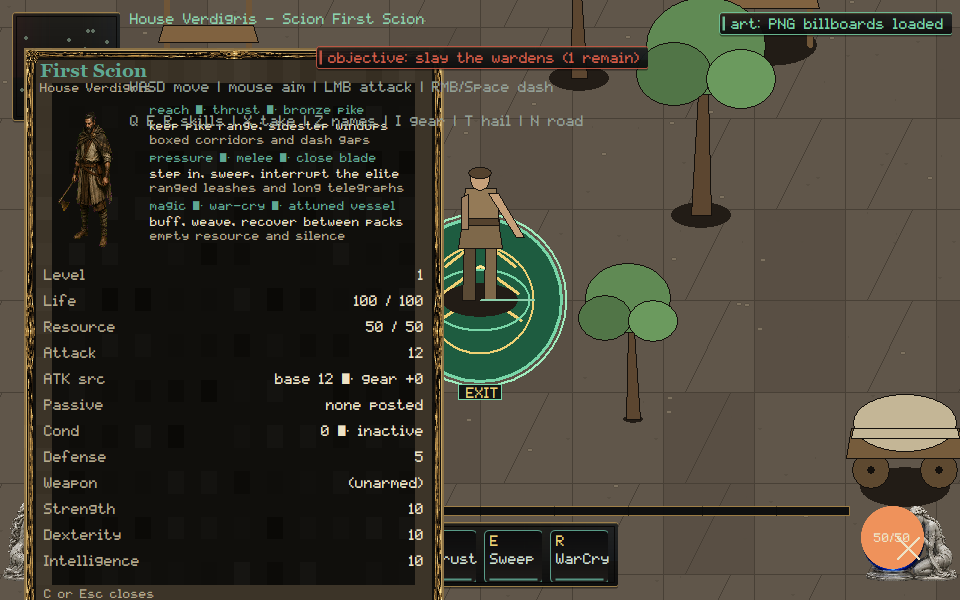
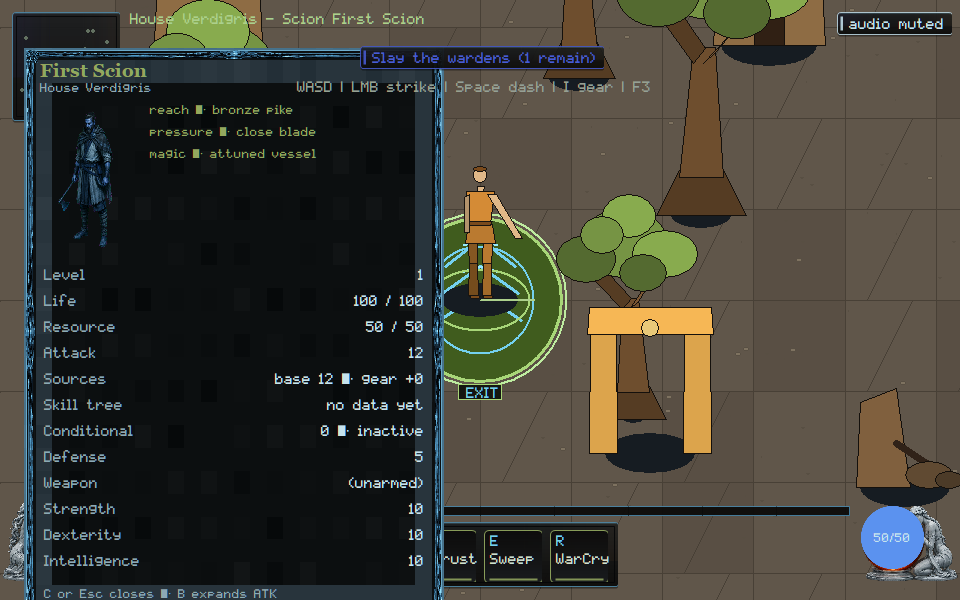
native: paint character-sheet ATK sources in owner language
Expanded Base/Gear/Passive/Conditional stay owner-facing; HUD ops keep char:src labels. Slice builds on the sheet are role-gear chips, not tactics essays.

diff --git a/native/client/main.cpp b/native/client/main.cpp
@@ -5333,18 +5333,10 @@ void paint_character_pane(ClientState& state, HDC dc, const RECT& bounds,
     const int bx = left + 20 * s + dest_w + 10 * s;
     for (const auto& build : verdigris::client::builds::kSliceBuilds) {
       const std::string head =
-          std::string(build.role) + " · " + build.primary_action + " · " +
-          build.gear;
+          std::string(build.role) + " · " + build.gear;
       SetTextColor(dc, skin::kVerdigris);
       TextOutA(dc, bx, by, head.c_str(), static_cast<int>(head.size()));
-      by += 16 * s;
-      SetTextColor(dc, skin::kInk);
-      TextOutA(dc, bx, by, build.tactics, static_cast<int>(strlen(build.tactics)));
-      by += 14 * s;
-      SetTextColor(dc, skin::kInkDim);
-      TextOutA(dc, bx, by, build.weakness,
-               static_cast<int>(strlen(build.weakness)));
-      by += 18 * s;
+      by += 22 * s;
       rl.push_back({render::Op::Hud, static_cast<double>(bx),
                     static_cast<double>(by), 0.0, 0,
                     verdigris::client::builds::fixture_hud_label(build)});
@@ -5425,21 +5417,40 @@ void paint_character_pane(ClientState& state, HDC dc, const RECT& bounds,
   }
   int y = top + 56 * s + portrait_h + 14 * s;
   SelectObject(dc, skin::font_body());
+  auto owner_stat_name = [](const std::string& label) -> std::string {
+    if (label == "src base") return "Base";
+    if (label == "src gear") return "Gear";
+    if (label == "src passive") return "Passive";
+    if (label == "src cond") return "Conditional";
+    if (label == "ATK src") return "Sources";
+    if (label == "Cond") return "Conditional";
+    if (label == "Passive") return "Skill tree";
+    return label;
+  };
+  auto owner_stat_value = [](const std::string& label,
+                             const std::string& value) -> std::string {
+    if (label == "Passive" && value == "none posted") return "no data yet";
+    return value;
+  };
   for (const auto& row : rows) {
+    const std::string shown = owner_stat_name(row.label);
+    const std::string shown_value = owner_stat_value(row.label, row.value);
     SetTextColor(dc, skin::kInkDim);
-    TextOutA(dc, left + 20 * s, y, row.label.c_str(),
-             static_cast<int>(row.label.size()));
+    TextOutA(dc, left + 20 * s, y, shown.c_str(),
+             static_cast<int>(shown.size()));
     SIZE extent{};
-    GetTextExtentPoint32A(dc, row.value.c_str(),
-                          static_cast<int>(row.value.size()), &extent);
+    GetTextExtentPoint32A(dc, shown_value.c_str(),
+                          static_cast<int>(shown_value.size()), &extent);
     SetTextColor(dc, skin::kInk);
-    TextOutA(dc, left + pane_w - 20 * s - extent.cx, y, row.value.c_str(),
-             static_cast<int>(row.value.size()));
+    TextOutA(dc, left + pane_w - 20 * s - extent.cx, y, shown_value.c_str(),
+             static_cast<int>(shown_value.size()));
     rl.push_back({render::Op::Hud, static_cast<double>(left),
                   static_cast<double>(y), 0.0, 0,
                   "char:" + row.label + ":" + row.value});
     y += row_h;
   }
+  if (src.expanded)
+    rl.push_back({render::Op::Hud, 0.0, 0.0, 0.0, 0, "stat:owner-labels"});
   rl.push_back({render::Op::Hud, 0.0, 0.0, 0.0, attack_total,
                 std::string("char:atk-expanded:") + (src.expanded ? "1" : "0")});
   if (!verdigris::client::ui::folds_dormant_into_attack(src, attack_total))
@@ -12356,6 +12367,12 @@ int scenario_stat_explain() {
                  "stat-explain: expanded sheet names base, gear, passive, cond");
   scenario_check(expanded && excluded,
                  "stat-explain: expand flag and dormant-exclusion are on the HUD");
+  bool owner_labels = false;
+  for (const auto& item : state.render_list)
+    if (item.op == render::Op::Hud && item.label == "stat:owner-labels")
+      owner_labels = true;
+  scenario_check(owner_labels,
+                 "stat-explain: expanded sources paint Base/Gear, not src jargon");
 
   const std::string dir = art_wave_capture_dir();
   if (dir.empty()) {

diff --git a/docs/execution/CROSSWALK.md b/docs/execution/CROSSWALK.md
@@ -250,8 +250,10 @@ Scenario `death-disconnect`. Core D-106 stays Kimi/TASK-0018.
 VG-UI-005: `route-map` — overlay zoom/opacity cannot move the player or
 mint an off-snapshot warden blip. The owner card titles Tin village, not
 `route:tin:1:0`. Owner Demo journeys not reimplemented.
-VG-UI-004: `stat-explain` — expanded ATK names base/gear/passive/cond.
-A dormant conditional cannot fold into Attack. Core STAT stays Kimi.
+VG-UI-004: `stat-explain` — expanded ATK names base/gear/passive/cond on
+HUD ops. Owner paint uses Base/Gear, not `src` jargon. Slice builds on
+the sheet are role · gear chips; tactics stay on HUD ops. A dormant
+conditional cannot fold into Attack. Core STAT stays Kimi.
 VG-UI-002: `pack-drag` — reject cannot lose, duplicate, or silently equip.
 VG-ART-005: `held-item` — world actor hold must change on equip. A filled
 paper-doll seat with `held:none` cannot pass.

diff --git a/docs/execution/CROSSWALK_REGISTRY.md b/docs/execution/CROSSWALK_REGISTRY.md
@@ -138,7 +138,7 @@ not implemented here.
 | VG-UI-001 | G1 | extend | pane-stack native Escape; helper depth alone cannot prove |
 | VG-UI-002 | G2 | extend | pack-drag occupancy; reject cannot lose/duplicate/silent-equip; sim inventory-move stays Kimi |
 | VG-UI-003 | G2 | extend | equipment ack-only; owner skill-tree line, not TREE jargon |
-| VG-UI-004 | G2 | extend | stat-explain expandable ATK; dormant cannot fold into Attack; core STAT stays Kimi |
+| VG-UI-004 | G2 | extend | stat-explain owner Base/Gear labels; dormant cannot fold into Attack |
 | VG-UI-005 | G3 | extend | route-map zoom/opacity; off-snapshot blip cannot pass; Owner Demo journeys not reimplemented |
 | VG-UI-006 | G2 | extend | Owner Demo — do not duplicate |
 | VG-UI-007 | G3 | extend | hud-pane-readability 960/1366/3440 in art-wave; not VG-UI-006; TASK-0159 folder cannot certify |

diff --git a/orchestration/CURSOR_KIMI_LANES.md b/orchestration/CURSOR_KIMI_LANES.md
@@ -444,3 +444,13 @@ Please move off that branch before taking a new native path.
 - **Stay off** `native/client/main.cpp` and `docs/execution/**`. SEC/CORE
   remain yours. GOV-002 still unstamped.
 
+## Cursor reply (2026-09-06, owner-readable character sheet)
+
+- **Lease:** `main.cpp` still **ACTIVE**. `remote_session.cpp` stays
+  **RELEASED**. Do not re-spec TASK-0108 core/wire (`3b929637`).
+- **Landed this push:** VG-UI-004 — character sheet paints Base/Gear
+  source names; slice builds are role · gear chips. HUD ops unchanged
+  for BUILD-001. Not Owner Demo.
+- **Stay off** `native/client/main.cpp` and `docs/execution/**`. SEC/CORE
+  remain yours. GOV-002 still unstamped.
+

diff --git a/docs/rebuild/HANDOFF.md b/docs/rebuild/HANDOFF.md
@@ -1,5 +1,14 @@
 # Native reconstitution handoff
 
+## 2026-09-06 — owner-readable character sheet (Cursor)
+
+- VG-UI-004: expanded ATK sources paint Base / Gear / Passive /
+  Conditional. HUD ops keep `char:src *`. Slice builds on the sheet are
+  `role · gear` chips; tactics/weakness stay on HUD ops for VG-BUILD-001.
+- Scenarios `stat-explain` / `build-fixtures` / `loot-to-bank` PASS.
+  Capture viewed: current HUD, compact builds, owner source labels.
+  Not Owner Demo. STAT/BUILD sim stays Kimi.
+
 ## 2026-09-06 — owner gear pane without TREE jargon (Cursor)
 
 - VG-UI-003: gear overlay paints `Skill tree: no data yet` when the tree
